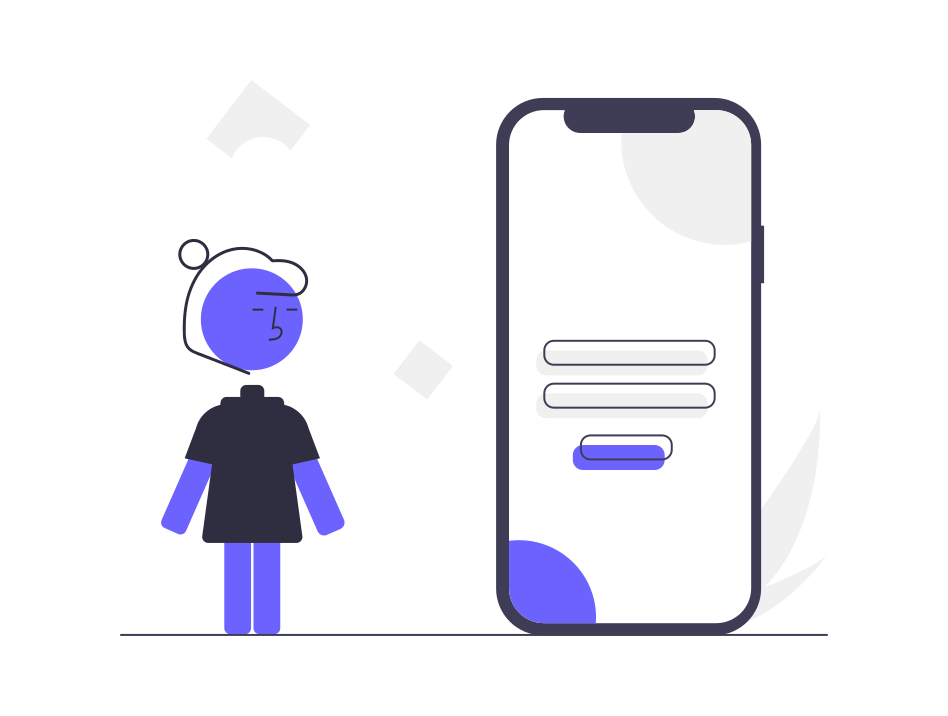
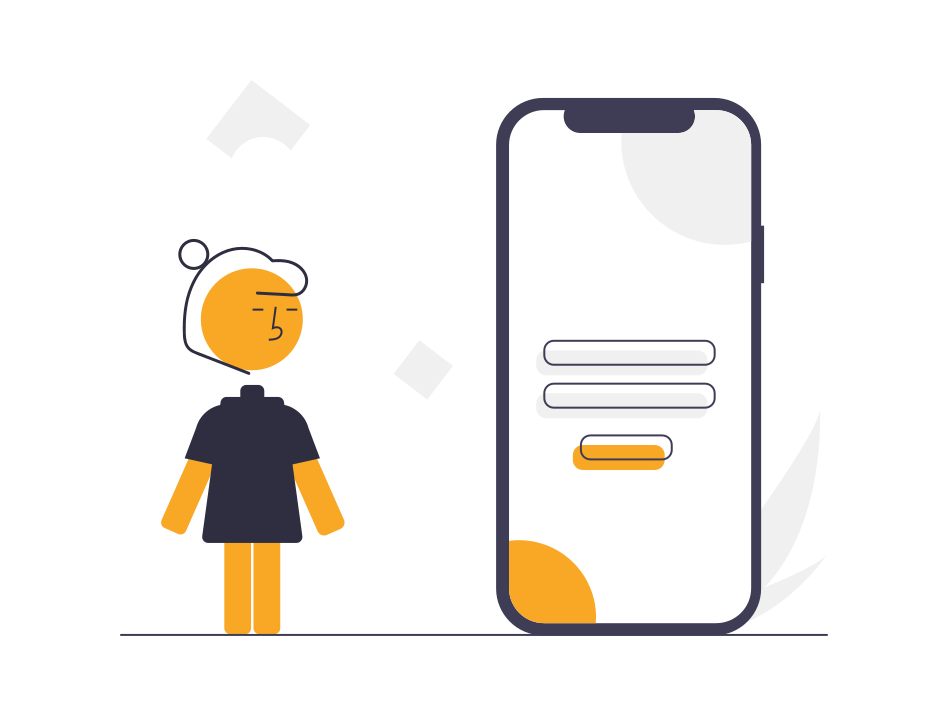
Registration + UI Change + Color Theme Change

diff --git a/lib/Pages/about.dart b/lib/Pages/about.dart
@@ -9,25 +9,25 @@ class AboutScreen extends StatelessWidget {
 
   @override
   Widget build(BuildContext context) {
-    final user = FirebaseAuth.instance.currentUser!;
+    final user = FirebaseAuth.instance.currentUser;
     return Scaffold(
       backgroundColor: Colors.white,
       appBar: AppBar(
         title: Text(
           'About You',
           style: TextStyle(
-              color: Colors.deepPurpleAccent, fontWeight: FontWeight.bold),
+              color: Colors.deepOrangeAccent, fontWeight: FontWeight.bold),
         ),
         centerTitle: true,
         backgroundColor: Colors.white,
         elevation: 0,
         leading: InkWell(
             onTap: () {
-              Navigator.pushReplacementNamed(context, '/home');
+              Navigator.pushReplacementNamed(context, '/main');
             },
             child: const Icon(
               Icons.arrow_back_ios_new_outlined,
-              color: Colors.deepPurpleAccent,
+              color: Colors.deepOrangeAccent,
               size: 16,
             )),
       ),
@@ -37,18 +37,19 @@ class AboutScreen extends StatelessWidget {
             ClipRRect(
               child: Image(
                 image: AssetImage('assets/user.png'),
+                height: 200,
               ),
             ),
             SizedBox(
-              height: 100,
+              height: 70,
             ),
             Padding(
               padding: const EdgeInsets.all(10.0),
               child: Text(
-                'Your email id is ${user.email!}',
+                'Your email id is ${user?.email}',
                 style: TextStyle(
                   fontSize: 20,
-                  color: Colors.deepPurpleAccent,
+                  color: Colors.deepOrangeAccent,
                 ),
               ),
             ),
@@ -61,7 +62,7 @@ class AboutScreen extends StatelessWidget {
                 'Check your Unique ID',
                 style: TextStyle(
                   fontSize: 20,
-                  color: Colors.deepPurpleAccent,
+                  color: Colors.deepOrangeAccent,
                 ),
               ),
             ),
@@ -80,14 +81,14 @@ class AboutScreen extends StatelessWidget {
                         textAlign: TextAlign.center,
                         style: TextStyle(
                           fontWeight: FontWeight.bold,
-                          color: Colors.deepPurpleAccent,
+                          color: Colors.deepOrangeAccent,
                         ),
                       ),
                       content: Text(
-                        'Dont Share it. Your UID : ${user.uid}',
+                        'Dont Share it. Your UID : ${user?.uid}',
                         style: TextStyle(
                           fontWeight: FontWeight.w500,
-                          color: Colors.deepPurpleAccent,
+                          color: Colors.deepOrangeAccent,
                         ),
                       ),
                     );
@@ -96,7 +97,7 @@ class AboutScreen extends StatelessWidget {
               },
               label: const Text('Reveal It'),
               style: ElevatedButton.styleFrom(
-                primary: Colors.deepPurpleAccent,
+                primary: Colors.deepOrangeAccent,
                 minimumSize: const Size(300, 50),
               ),
             ),
@@ -115,7 +116,7 @@ class AboutScreen extends StatelessWidget {
                         textAlign: TextAlign.center,
                         style: TextStyle(
                           fontWeight: FontWeight.bold,
-                          color: Colors.deepPurpleAccent,
+                          color: Colors.deepOrangeAccent,
                         ),
                       ),
                       content: Row(
@@ -129,7 +130,7 @@ class AboutScreen extends StatelessWidget {
                               style: TextStyle(color: Colors.white),
                             ),
                             style: ElevatedButton.styleFrom(
-                              primary: Colors.deepPurpleAccent,
+                              primary: Colors.deepOrangeAccent,
                               minimumSize: const Size(40, 50),
                             ),
                           ),
@@ -142,11 +143,11 @@ class AboutScreen extends StatelessWidget {
                               FirebaseAuth.instance.signOut();
                             },
                             child: Text(
-                              'Yep',
+                              'Yep !',
                               style: TextStyle(color: Colors.white),
                             ),
                             style: ElevatedButton.styleFrom(
-                              primary: Colors.deepPurpleAccent,
+                              primary: Colors.deepOrangeAccent,
                               minimumSize: const Size(40, 50),
                             ),
                           ),
@@ -158,7 +159,7 @@ class AboutScreen extends StatelessWidget {
               },
               label: const Text('Log Out'),
               style: ElevatedButton.styleFrom(
-                primary: Colors.deepPurpleAccent,
+                primary: Colors.deepOrangeAccent,
                 minimumSize: const Size(300, 50),
               ),
             ),

diff --git a/lib/bottomSheets/register_bottom.dart b/lib/bottomSheets/register_bottom.dart
@@ -5,35 +5,36 @@ import 'package:flutter/material.dart';
 import 'package:font_awesome_flutter/font_awesome_flutter.dart';
 import 'package:reduceo/shared/constants.dart';
 
-class LoginBottomSheet extends StatefulWidget {
-  const LoginBottomSheet({Key? key}) : super(key: key);
+class RegisterBottom extends StatefulWidget {
+  const RegisterBottom({Key? key}) : super(key: key);
 
   @override
-  _LoginBottomSheetState createState() => _LoginBottomSheetState();
+  _RegisterBottomState createState() => _RegisterBottomState();
 }
 
-class _LoginBottomSheetState extends State<LoginBottomSheet> {
+class _RegisterBottomState extends State<RegisterBottom> {
   final emailController = TextEditingController();
   final passwordController = TextEditingController();
   var error = "";
 
-  Future signIn() async {
+  void dispose() {
+    emailController.dispose();
+    passwordController.dispose();
+    super.dispose();
+  }
+
+  Future signUp() async {
     try {
-      await FirebaseAuth.instance.signInWithEmailAndPassword(
+      await FirebaseAuth.instance.createUserWithEmailAndPassword(
         email: emailController.text.trim(),
         password: passwordController.text.trim(),
       );
       Navigator.pop(context);
     } on FirebaseAuthException catch (e) {
       print(e);
-      error = "Either the Email or the Password is Incorrect";
+      error =
+          "Enter a valid Email/Maybe the email is already in use or Minimum of 6 character long Password";
     }
-  }
-
-  void dispose() {
-    emailController.dispose();
-    passwordController.dispose();
-    super.dispose();
   }
 
   @override
@@ -43,12 +44,13 @@ class _LoginBottomSheetState extends State<LoginBottomSheet> {
         child: Column(
           children: [
             ClipRRect(
-                child: Image(
-              image: AssetImage('assets/wave.png'),
-            )),
+              child: Image(
+                image: AssetImage('assets/wave.png'),
+              ),
+            ),
             Padding(
-              padding: const EdgeInsets.only(right: 190.0),
-              child: Text("Welcome Back !",
+              padding: const EdgeInsets.only(right: 230.0),
+              child: Text("Hola Friend !",
                   style: TextStyle(
                     color: Colors.deepOrangeAccent,
                     fontWeight: FontWeight.bold,
@@ -57,8 +59,8 @@ class _LoginBottomSheetState extends State<LoginBottomSheet> {
             ),
             SizedBox(height: 10),
             Padding(
-              padding: const EdgeInsets.only(right: 130.0),
-              child: Text("We are so excited to see you !",
+              padding: const EdgeInsets.only(right: 185.0),
+              child: Text("Lets get you registered",
                   style: TextStyle(
                     color: Colors.deepOrangeAccent,
                     fontWeight: FontWeight.bold,
@@ -69,8 +71,8 @@ class _LoginBottomSheetState extends State<LoginBottomSheet> {
               height: 50,
             ),
             Padding(
-              padding: const EdgeInsets.all(10.0),
-              child: TextField(
+              padding: const EdgeInsets.fromLTRB(10, 10, 10, 10),
+              child: TextFormField(
                 controller: emailController,
                 cursorColor: Colors.deepOrangeAccent,
                 textInputAction: TextInputAction.next,
@@ -80,7 +82,7 @@ class _LoginBottomSheetState extends State<LoginBottomSheet> {
             ),
             Padding(
               padding: const EdgeInsets.all(10.0),
-              child: TextField(
+              child: TextFormField(
                 controller: passwordController,
                 cursorColor: Colors.deepOrangeAccent,
                 textInputAction: TextInputAction.next,
@@ -92,22 +94,26 @@ class _LoginBottomSheetState extends State<LoginBottomSheet> {
             ElevatedButton.icon(
               icon: const FaIcon(FontAwesomeIcons.lock),
               onPressed: () {
-                signIn();
+                signUp();
               },
-              label: const Text('Securely Login'),
+              label: const Text('Securely Register'),
               style: ElevatedButton.styleFrom(
                 primary: Colors.deepOrangeAccent,
                 minimumSize: const Size(300, 50),
               ),
             ),
             SizedBox(
-              height: 20,
+              height: 15,
             ),
-            Text(
-              error,
-              style: TextStyle(
-                color: Colors.red,
-                fontSize: 15,
+            Padding(
+              padding: const EdgeInsets.all(14.0),
+              child: Text(
+                error,
+                textAlign: TextAlign.center,
+                style: TextStyle(
+                  color: Colors.red,
+                  fontSize: 15,
+                ),
               ),
             )
           ],

diff --git a/lib/Pages/login.dart b/lib/Pages/login.dart
@@ -1,6 +1,7 @@
 import 'package:flutter/material.dart';
 import 'package:font_awesome_flutter/font_awesome_flutter.dart';
 import 'package:reduceo/bottomSheets/login_bottom.dart';
+import 'package:reduceo/bottomSheets/register_bottom.dart';
 
 class LoginScreen extends StatelessWidget {
   const LoginScreen({Key? key}) : super(key: key);
@@ -47,7 +48,7 @@ class LoginScreen extends StatelessWidget {
               },
               label: const Text('Login With Mail'),
               style: ElevatedButton.styleFrom(
-                  primary: Colors.deepPurpleAccent,
+                  primary: Colors.deepOrangeAccent,
                   minimumSize: const Size(300, 50)),
             ),
             const SizedBox(
@@ -55,10 +56,23 @@ class LoginScreen extends StatelessWidget {
             ),
             ElevatedButton.icon(
                 icon: const FaIcon(FontAwesomeIcons.solidEnvelope),
-                onPressed: () {},
+                onPressed: () {
+                  showModalBottomSheet(
+                      shape: RoundedRectangleBorder(
+                        borderRadius: BorderRadius.circular(20.0),
+                      ),
+                      isScrollControlled: true,
+                      context: context,
+                      builder: (BuildContext context) {
+                        return Container(
+                          height: 700,
+                          child: RegisterBottom(),
+                        );
+                      });
+                },
                 label: const Text('Register With Mail'),
                 style: ElevatedButton.styleFrom(
-                    primary: Colors.deepPurpleAccent,
+                    primary: Colors.deepOrangeAccent,
                     minimumSize: const Size(300, 50))),
           ],
         )));

diff --git a/lib/main.dart b/lib/main.dart
@@ -5,6 +5,7 @@ import 'package:firebase_auth/firebase_auth.dart';
 import 'package:flutter/material.dart';
 import 'package:page_transition/page_transition.dart';
 import 'package:provider/provider.dart';
+import 'package:reduceo/Pages/home.dart';
 import 'package:reduceo/Pages/main_home.dart';
 
 import 'Pages/login.dart';
@@ -21,7 +22,7 @@ class MyApp extends StatelessWidget {
   @override
   Widget build(BuildContext context) => MaterialApp(
           routes: {
-            '/home': (context) => const MainHome(),
+            '/main': (context) => const MainHome(),
           },
           debugShowCheckedModeBanner: false,
           home: AnimatedSplashScreen(
@@ -29,7 +30,7 @@ class MyApp extends StatelessWidget {
               splash: Text('Reduceo',
                   style: TextStyle(
                       fontSize: 35,
-                      color: Colors.deepPurpleAccent,
+                      color: Colors.deepOrangeAccent,
                       fontWeight: FontWeight.bold)),
               nextScreen: Wrapper(),
               splashTransition: SplashTransition.fadeTransition,

diff --git a/lib/Pages/main_home.dart b/lib/Pages/main_home.dart
@@ -33,21 +33,21 @@ class _MainHomeState extends State<MainHome> {
                 icon: Icon(
                   Icons.home,
                   size: 30,
-                  color: Colors.deepPurpleAccent,
+                  color: Colors.deepOrangeAccent,
                 ),
                 label: ''),
             BottomNavigationBarItem(
                 icon: Icon(
                   Icons.message_outlined,
                   size: 30,
-                  color: Colors.deepPurpleAccent,
+                  color: Colors.deepOrangeAccent,
                 ),
                 label: ''),
             BottomNavigationBarItem(
                 icon: Icon(
                   Icons.account_circle,
                   size: 30,
-                  color: Colors.deepPurpleAccent,
+                  color: Colors.deepOrangeAccent,
                 ),
                 label: ''),
           ],

diff --git a/lib/shared/constants.dart b/lib/shared/constants.dart
@@ -4,9 +4,7 @@ const textInputDecoration = InputDecoration(
   filled: true,
   fillColor: Colors.white,
   enabledBorder: OutlineInputBorder(
-      borderSide: BorderSide(color: Colors.deepPurpleAccent,width: 2)
-  ),
-  focusedBorder:  OutlineInputBorder(
-      borderSide: BorderSide(color: Colors.deepPurpleAccent, width: 2)
-  ),
+      borderSide: BorderSide(color: Colors.deepOrangeAccent, width: 2)),
+  focusedBorder: OutlineInputBorder(
+      borderSide: BorderSide(color: Colors.deepOrangeAccent, width: 2)),
 );
